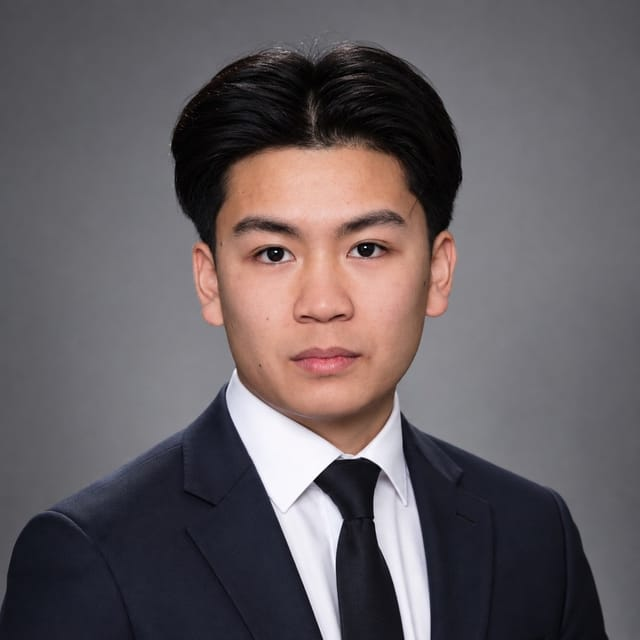
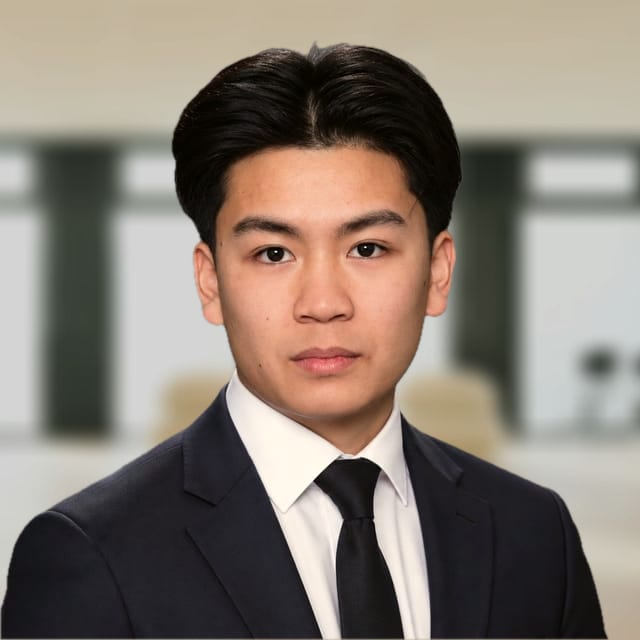
Set the headshot in a softly blurred office
Cut the portrait out of its grey studio backdrop with Apple's on-device
Vision subject lift, warm it slightly, and place it over a Portrait-mode
blur of a white open-plan office with tall, dark-framed windows ("A large
room with chairs and tables in it" by JIRAN FAMILY on Unsplash, Unsplash
License). The loading placeholder now matches the new backdrop.

diff --git a/app/globals.css b/app/globals.css
@@ -937,23 +937,13 @@ button {
 }
 
 /* Seats the portrait in the glass: a thin rim of light around the circle,
-   brightest along the top edge like the panels' own highlight, and a faint
-   warm wash so the cool studio grey picks up the room's colour. */
-.hero-photo::before,
+   brightest along the top edge like the panels' own highlight. */
 .hero-photo::after {
   content: "";
   position: absolute;
   inset: 0;
   border-radius: 50%;
   pointer-events: none;
-}
-
-.hero-photo::before {
-  background: linear-gradient(160deg, rgb(255 196 150 / 0.22), rgb(255 196 150 / 0.06) 70%);
-  mix-blend-mode: soft-light;
-}
-
-.hero-photo::after {
   box-shadow: inset 0 0 0 1px rgb(255 255 255 / 0.16), inset 0 1.5px 0 rgb(255 255 255 / 0.32);
 }
 
@@ -964,8 +954,9 @@ button {
   aspect-ratio: 1;
   object-fit: cover;
   border-radius: 50%;
-  /* matches the studio backdrop so the slot reads as the photo while it loads */
-  background: #74777b;
+  /* the blurred office's soft whites and window frames, so the slot reads as
+     the photo while it loads */
+  background: linear-gradient(180deg, #d9d4cc, #a9a39b);
   /* no outline, just a soft shadow to lift it off the glass */
   box-shadow: 0 10px 24px -14px rgb(8 8 12 / 0.4), 0 34px 64px -20px rgb(8 8 12 / 0.55);
 }

diff --git a/app/page.tsx b/app/page.tsx
@@ -182,8 +182,12 @@ function ExternalLink({ href, className, children }: { href: string; className?:
   );
 }
 
-// Square headshot in AVIF, WebP and JPEG at 320px and 640px; the browser picks
-// the smallest file that stays sharp. Regenerate these when the photo changes.
+// Square headshot, cut out of its studio backdrop (Apple's on-device Vision
+// subject lift), warmed slightly, and set over a softened Portrait-mode blur of
+// a white open-plan office with tall, dark-framed windows ("A large room with
+// chairs and tables in it" by JIRAN FAMILY on Unsplash, Unsplash License).
+// AVIF, WebP and JPEG at 320px and 640px; the browser picks the smallest file
+// that stays sharp. Regenerate these when the photo changes.
 function Headshot() {
   const base = `${process.env.NEXT_PUBLIC_BASE_PATH ?? ""}/headshot`;
   const set = (ext: string) => `${base}-320.${ext} 320w, ${base}-640.${ext} 640w`;
